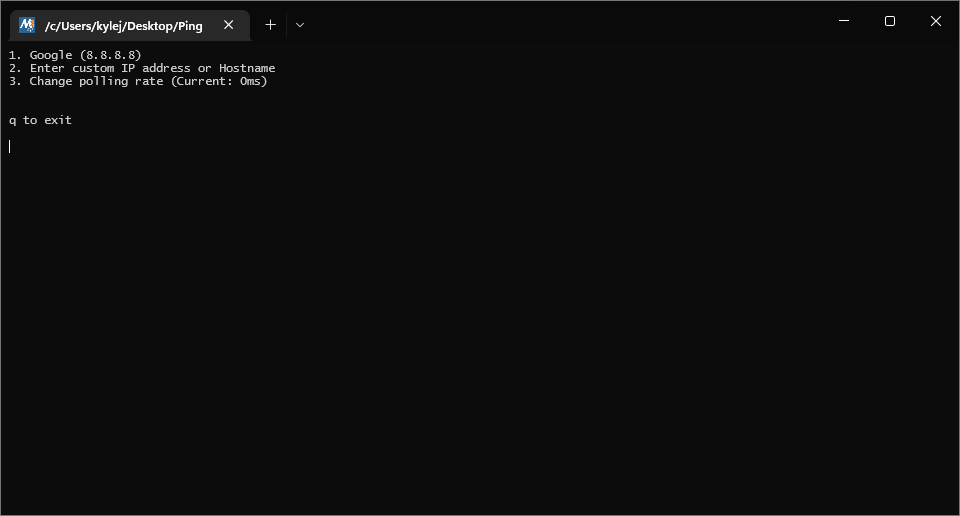
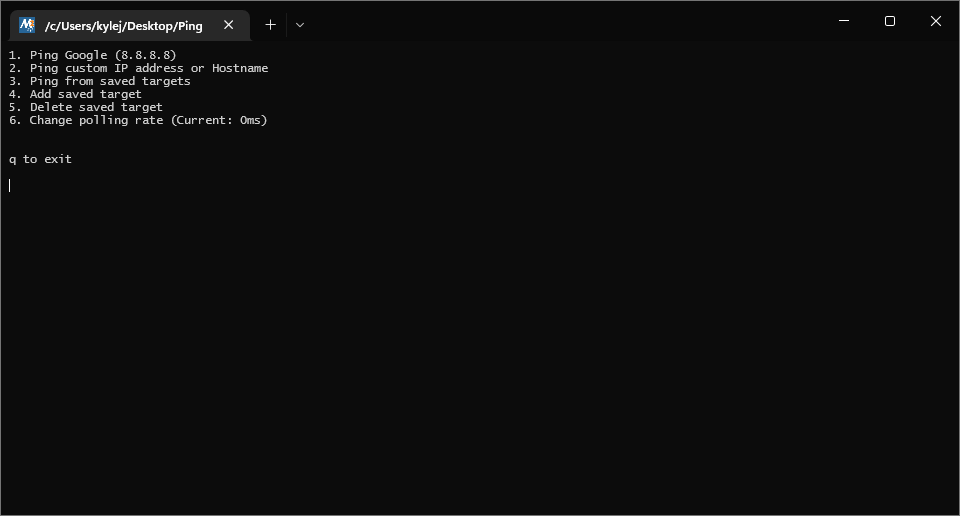
Added save and delete functionality

Changed region(s): [[0.0, 0.093, 0.2812, 0.2481]]

diff --git a/main.cpp b/main.cpp
@@ -5,6 +5,7 @@ multithread interrupt https://stackoverflow.com/questions/41470942/stop-infinite
 thread constructor    https://en.cppreference.com/w/cpp/thread/thread/thread
 batch ping            https://docs.microsoft.com/en-us/windows-server/administration/windows-commands/ping
                       filename cannot be the same as command to be redirected
+overwrite file        https://cplusplus.com/forum/beginner/195138/
 */
 
 #include <iostream>
@@ -30,9 +31,6 @@ using std::ref;
 
 void stopProgram(std::atomic_bool& stop);
 void reachFailure(string target);
-string chooseFromSaved(vector<string>& savedTargets);
-void printSavedTargets(vector<string>& savedTargets);
-
 
 int main(){
     int polling = 0;
@@ -45,10 +43,12 @@ int main(){
 
         while(1){
             system("cls");
-            cout << "1. Google (8.8.8.8)\n"
-                 << "2. Enter custom IP address or Hostname\n"
-                 << "3. Saved targets\n"
-                 << "4. Change polling rate (Current: " << polling << "ms)\n"
+            cout << "1. Ping Google (8.8.8.8)\n"
+                 << "2. Ping custom IP address or Hostname\n"
+                 << "3. Ping from saved targets\n"
+                 << "4. Add saved target\n"
+                 << "5. Delete saved target\n"
+                 << "6. Change polling rate (Current: " << polling << "ms)\n"
                  << "\n\nq to exit\n\n";
             cin >> input;
             if(input == "1"){
@@ -57,13 +57,35 @@ int main(){
                 break;
             }else if(input == "2"){
                 system("cls");
-                cout << "Enter custom IP address or Hostname: ";
+                cout << "Ping custom IP address or Hostname: ";
                 cin >> target;
                 break;
             }else if(input == "3"){
-                target = chooseFromSaved(savedTargets);
+                if(savedTargets.size() == 0){
+                    system("cls");
+                    cout << "No saved targets\n\n\n";
+                    system("pause");
+                    continue;
+                }
+                target = savedTargets[chooseFromSaved(savedTargets)];
                 break;
             }else if(input == "4"){
+                system("cls");
+                string addToSaved;
+                cout << "Save custom IP address or Hostname: ";
+                cin >> addToSaved;
+                savedTargets.push_back(addToSaved);
+                toCSV(savedTargets, "saved.csv");
+            }else if(input == "5"){
+                if(savedTargets.size() == 0){
+                    system("cls");
+                    cout << "No saved targets\n\n\n";
+                    system("pause");
+                    continue;
+                }
+                savedTargets.erase(savedTargets.begin() + chooseFromSaved(savedTargets));
+                toCSV(savedTargets, "saved.csv");
+            }else if(input == "6"){
                 polling = getPolling();
             }else if(input == "q"){
                 system("cls");
@@ -79,11 +101,11 @@ int main(){
             type = "hostname";
         }
 
-        //create bat
-        ofstream createBat;
-        createBat.open ("main.bat");
-        createBat << "@echo off\nping /n 1 /l 1 " + target << " > pings.txt\n";
-        createBat.close();
+        // //create bat
+        // ofstream createBat;
+        // createBat.open ("main.bat");
+        // createBat << "@echo off\nping /n 1 /l 1 " + target << " > pings.txt\n";
+        // createBat.close();
 
         //verify input can be pinged and set length
         string line;

diff --git a/ping.cpp b/ping.cpp
@@ -111,7 +111,7 @@ vector<string> saved(void){
     return savedTargets;
 }
 
-string chooseFromSaved(vector<string>& savedTargets){
+int chooseFromSaved(vector<string>& savedTargets){
     int chosen = 0;
     int numSaved = savedTargets.size();
 
@@ -125,7 +125,7 @@ string chooseFromSaved(vector<string>& savedTargets){
         cin.ignore(std::numeric_limits<std::streamsize>::max(),'\n');
         cin >> chosen;
     }
-    return savedTargets[chosen-1];
+    return chosen-1;
 }
 
 void printSavedTargets(vector<string>& savedTargets){
@@ -135,4 +135,14 @@ void printSavedTargets(vector<string>& savedTargets){
         i++;
     }
     cout << "\n";
+}
+
+void toCSV(vector<string>& savedTargets, string filename){
+    std::string line;
+    std::ofstream file(filename, std::ofstream::trunc);
+    for(long long unsigned int i = 0; i < savedTargets.size(); i++){
+        file << savedTargets[i] << ",";
+    }
+    file.close();
+    return;
 }

diff --git a/ping.h b/ping.h
@@ -24,7 +24,8 @@ bool isIP(string line);
 int getIPLength(std::string line);
 int getPolling(void);
 vector<string> saved(void);
-string chooseFromSaved(vector<string>& savedTargets);
+int chooseFromSaved(vector<string>& savedTargets);
 void printSavedTargets(vector<string>& savedTargets);
+void toCSV(vector<string>& savedTargets, string filename);
 
 #endif
